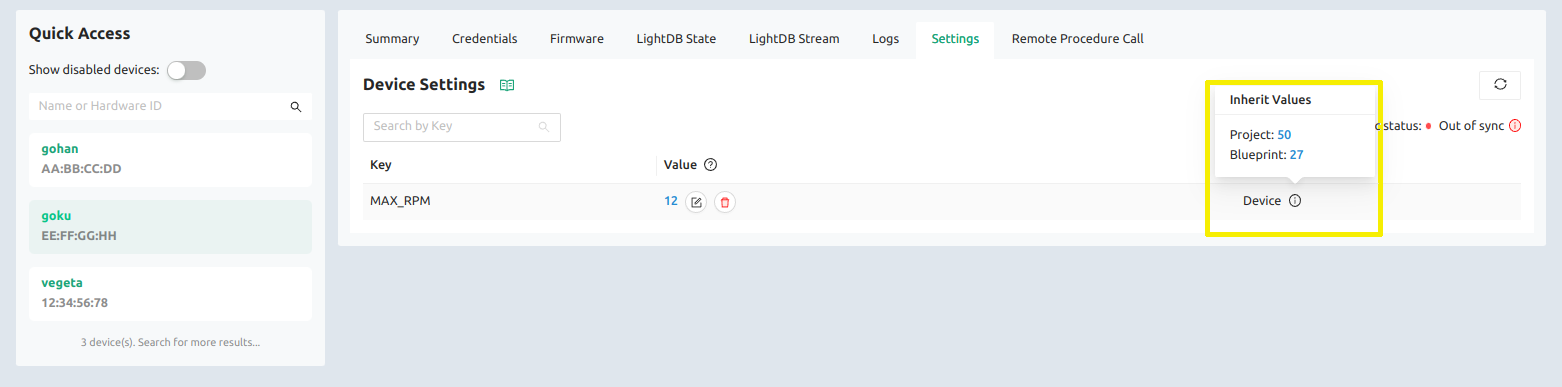
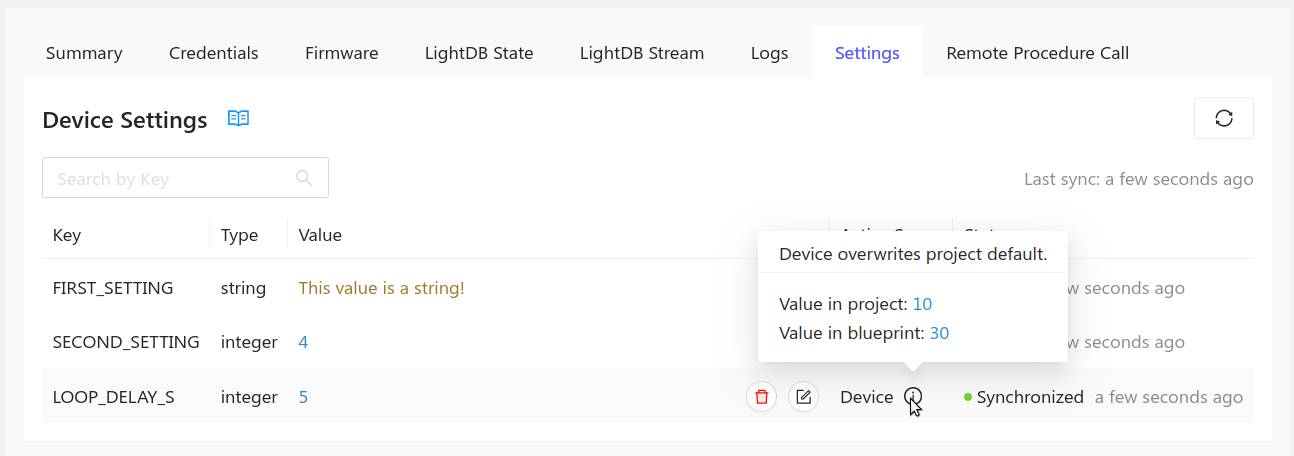
device-management: settings: update screenshots
- Update screenshots to reflect recent branding/layout
- Update copy to match new layout/naming

diff --git a/docs/device-management/7-settings/2-console-settings.md b/docs/device-management/7-settings/2-console-settings.md
@@ -47,11 +47,13 @@ all the settings applicable to that blueprint:
 
 ![Listing Blueprint-level settings](./assets/listing-blueprint-level-settings.png)
 
-In this view, the `Level` column indicates which level of the settings hierarchy
-is responsible for the settings value. We can see that the `SECOND_SETTING` has
-been updated at the `Blueprint` level. The garbage-can icon next to the setting
-can be used to remove this override, restoring the project-level value in the
-process.
+In this view, the `Active Scope` column indicates which level of the settings
+hierarchy is responsible for the settings value. We can see that the
+`SECOND_SETTING` has been updated at the `Blueprint` level.
+
+The garbage-can icon next to the active scope column can be used to remove this
+override, restoring the project-level value in the process. The pen and paper
+icon may be used to edit the value at the Blueprint scope.
 
 ## Device-level settings
 
@@ -59,16 +61,15 @@ Device-level settings are found on the details tab of a specific device. Click
 on `Devices` from the left sidebar menu. Choose the desired device, then click
 on the `Settings` tab:
 
-![Device Settings Tab](./assets/device-settings-tab.png)
-
 ![Listing Device-level settings](./assets/listing-device-level-settings.png)
 
-Once again, the `Level` column indicates which level of the settings hierarchy
-is responsible for the settings value. We can see that the `SECOND_SETTING` has
-been overridden at the `Device` level and this value will only affect the device
-you're currently viewing. The garbage-can icon next to the setting can be used
-to remove this override, restoring the project-level/blueprint-level
-inheritance.
+Once again, the `Active Scope` column indicates which level of the settings
+hierarchy is responsible for the settings value. We can see that a new
+`LOOP_DELAY_S` setting has been added and overridden at the `Device` level. This
+override value will only affect the device you're currently viewing.
+
+The garbage-can icon next to the active scope column can be used to remove this
+override, restoring the project-level/blueprint-level inheritance.
 
 ## Settings synch status and other information
 
@@ -87,7 +88,7 @@ reference](https://zephyr-sdk-docs.golioth.io/group__golioth__settings.html).
 ### Inheritance information on mouseover
 
 When viewing a setting that has been overridden, an information icon will be
-present in the `Level` column. Stop the mouse over the icon to reveal a modal
+present in the `Active Scope` column. Hover above the icon to reveal a modal
 containing a summary of the hierarchy of overrides:
 
 ![Hierarchy of overrides](./assets/overrides-hierarchy.png)
